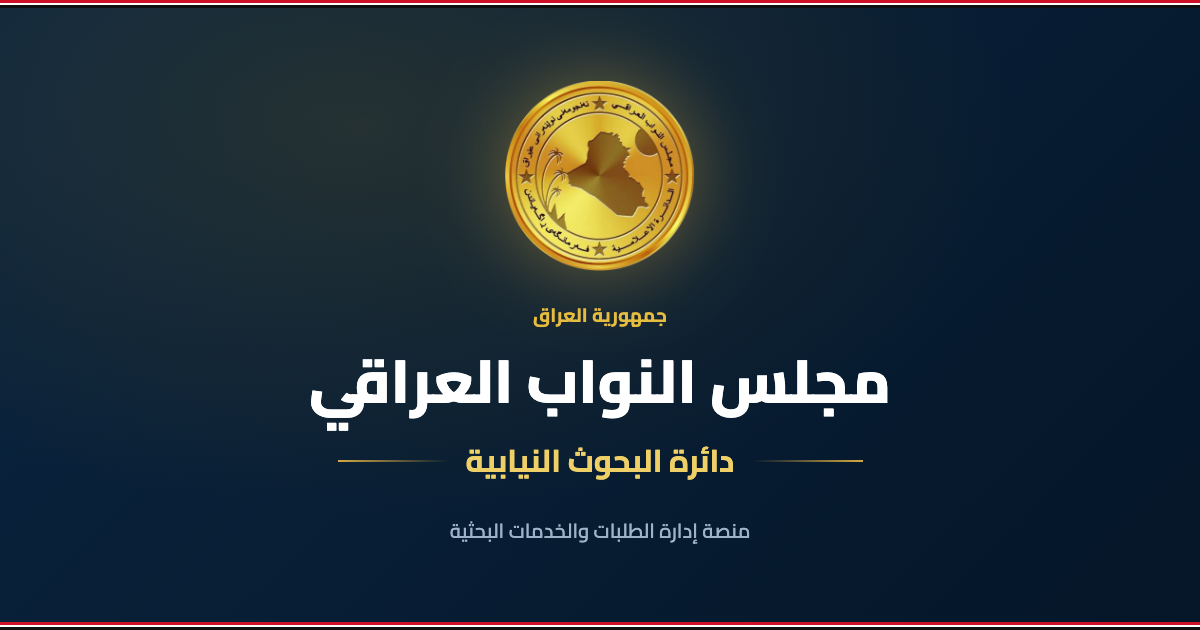
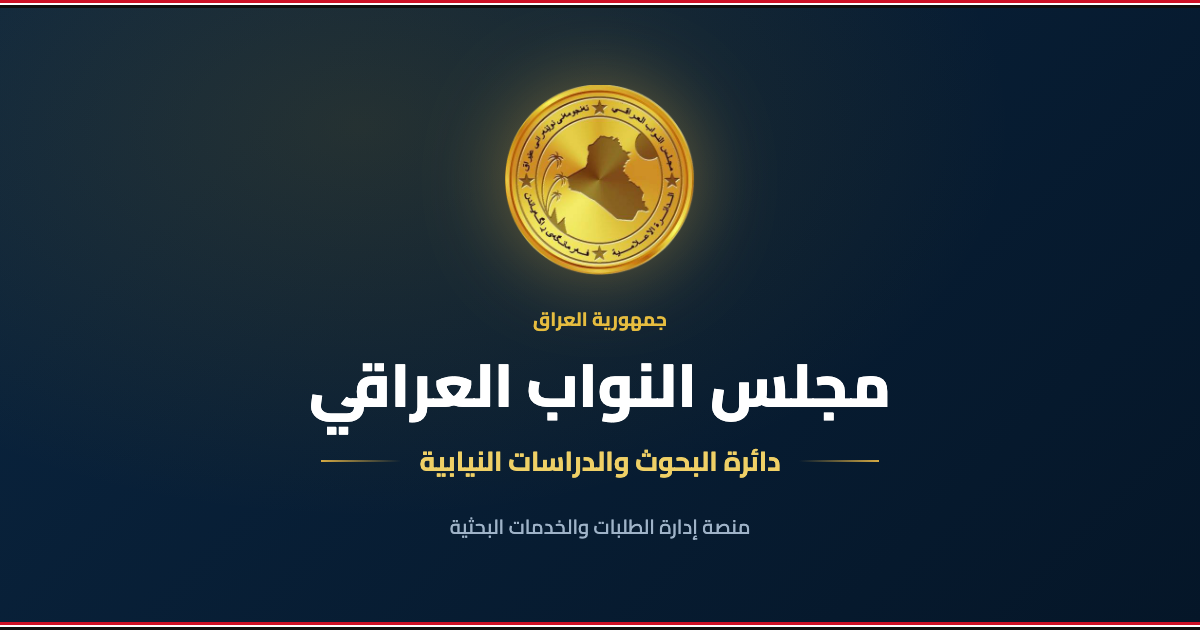
fix(seo): توحيد الاسم على «دائرة البحوث والدراسات النيابية»
الاسم الدقيق للدائرة. وُحِّد في وسوم البطاقة الستة وفي صورة المعاينة
المرسومة، فصار مطابقاً للسايدبار وصفحة الدخول ونص رسالة SMS.

diff --git a/deputy-portal/index.html b/deputy-portal/index.html
@@ -8,28 +8,28 @@
     <link rel="apple-touch-icon" href="/apple-touch-icon.png" />
     <meta name="viewport" content="width=device-width, initial-scale=1.0" />
     <meta name="theme-color" content="#0A2540" />
-    <meta name="description" content="دائرة البحوث النيابية — مجلس النواب العراقي. منصة إدارة الطلبات والخدمات البحثية للسادة النواب والرئاسات واللجان." />
+    <meta name="description" content="دائرة البحوث والدراسات النيابية — مجلس النواب العراقي. منصة إدارة الطلبات والخدمات البحثية للسادة النواب والرئاسات واللجان." />
 
     <!-- بطاقة المعاينة (روابط واتساب وتيليغرام وX ونتائج البحث) -->
     <meta property="og:type" content="website" />
-    <meta property="og:site_name" content="دائرة البحوث النيابية" />
+    <meta property="og:site_name" content="دائرة البحوث والدراسات النيابية" />
     <meta property="og:locale" content="ar_IQ" />
-    <meta property="og:title" content="دائرة البحوث النيابية | مجلس النواب العراقي" />
+    <meta property="og:title" content="دائرة البحوث والدراسات النيابية | مجلس النواب العراقي" />
     <meta property="og:description" content="منصة إدارة الطلبات والخدمات البحثية للسادة النواب والرئاسات واللجان." />
     <meta property="og:url" content="https://ppp.algonest.tech/" />
     <meta property="og:image" content="https://ppp.algonest.tech/og-image.png" />
     <meta property="og:image:width" content="1200" />
     <meta property="og:image:height" content="630" />
-    <meta property="og:image:alt" content="شعار مجلس النواب العراقي — دائرة البحوث النيابية" />
+    <meta property="og:image:alt" content="شعار مجلس النواب العراقي — دائرة البحوث والدراسات النيابية" />
     <meta name="twitter:card" content="summary_large_image" />
-    <meta name="twitter:title" content="دائرة البحوث النيابية | مجلس النواب العراقي" />
+    <meta name="twitter:title" content="دائرة البحوث والدراسات النيابية | مجلس النواب العراقي" />
     <meta name="twitter:description" content="منصة إدارة الطلبات والخدمات البحثية للسادة النواب والرئاسات واللجان." />
     <meta name="twitter:image" content="https://ppp.algonest.tech/og-image.png" />
 
     <link rel="preconnect" href="https://fonts.googleapis.com">
     <link rel="preconnect" href="https://fonts.gstatic.com" crossorigin>
     <link href="https://fonts.googleapis.com/css2?family=Cairo:wght@300;400;500;600;700;800&family=Amiri:wght@400;700&display=swap" rel="stylesheet">
-    <title>دائرة البحوث النيابية | مجلس النواب العراقي</title>
+    <title>دائرة البحوث والدراسات النيابية | مجلس النواب العراقي</title>
   </head>
   <body>
     <div id="root"></div>
